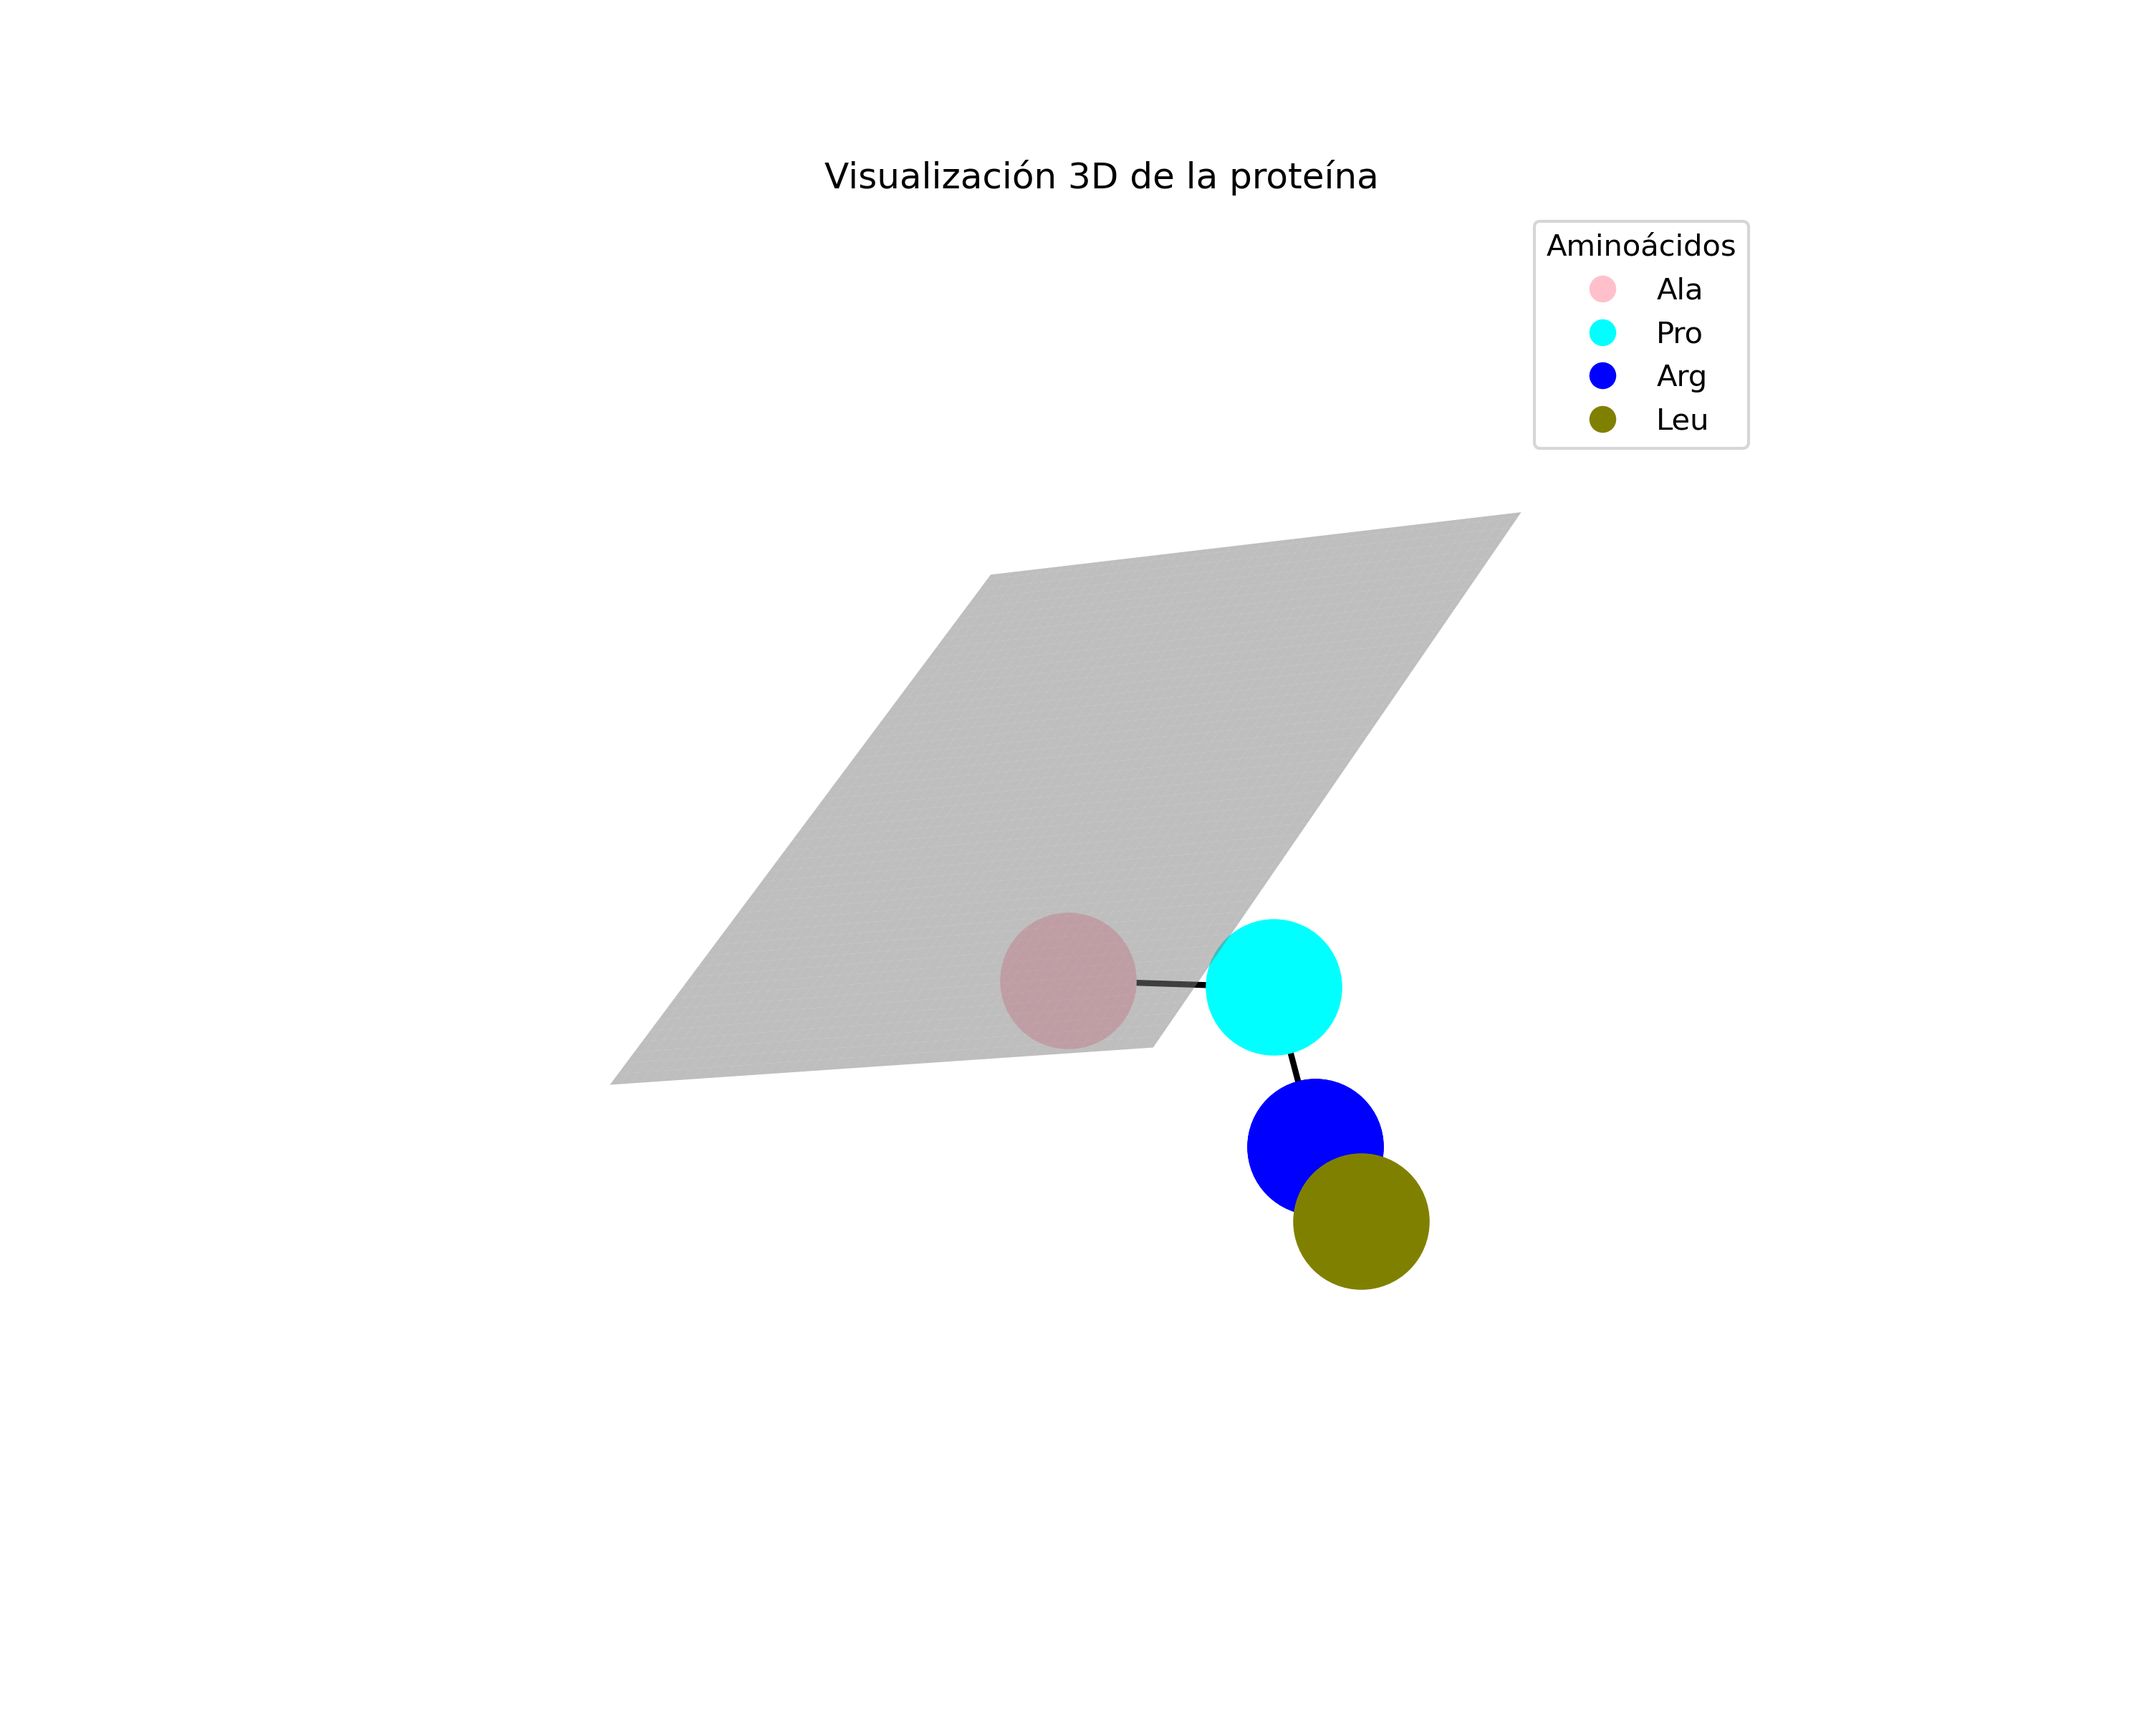
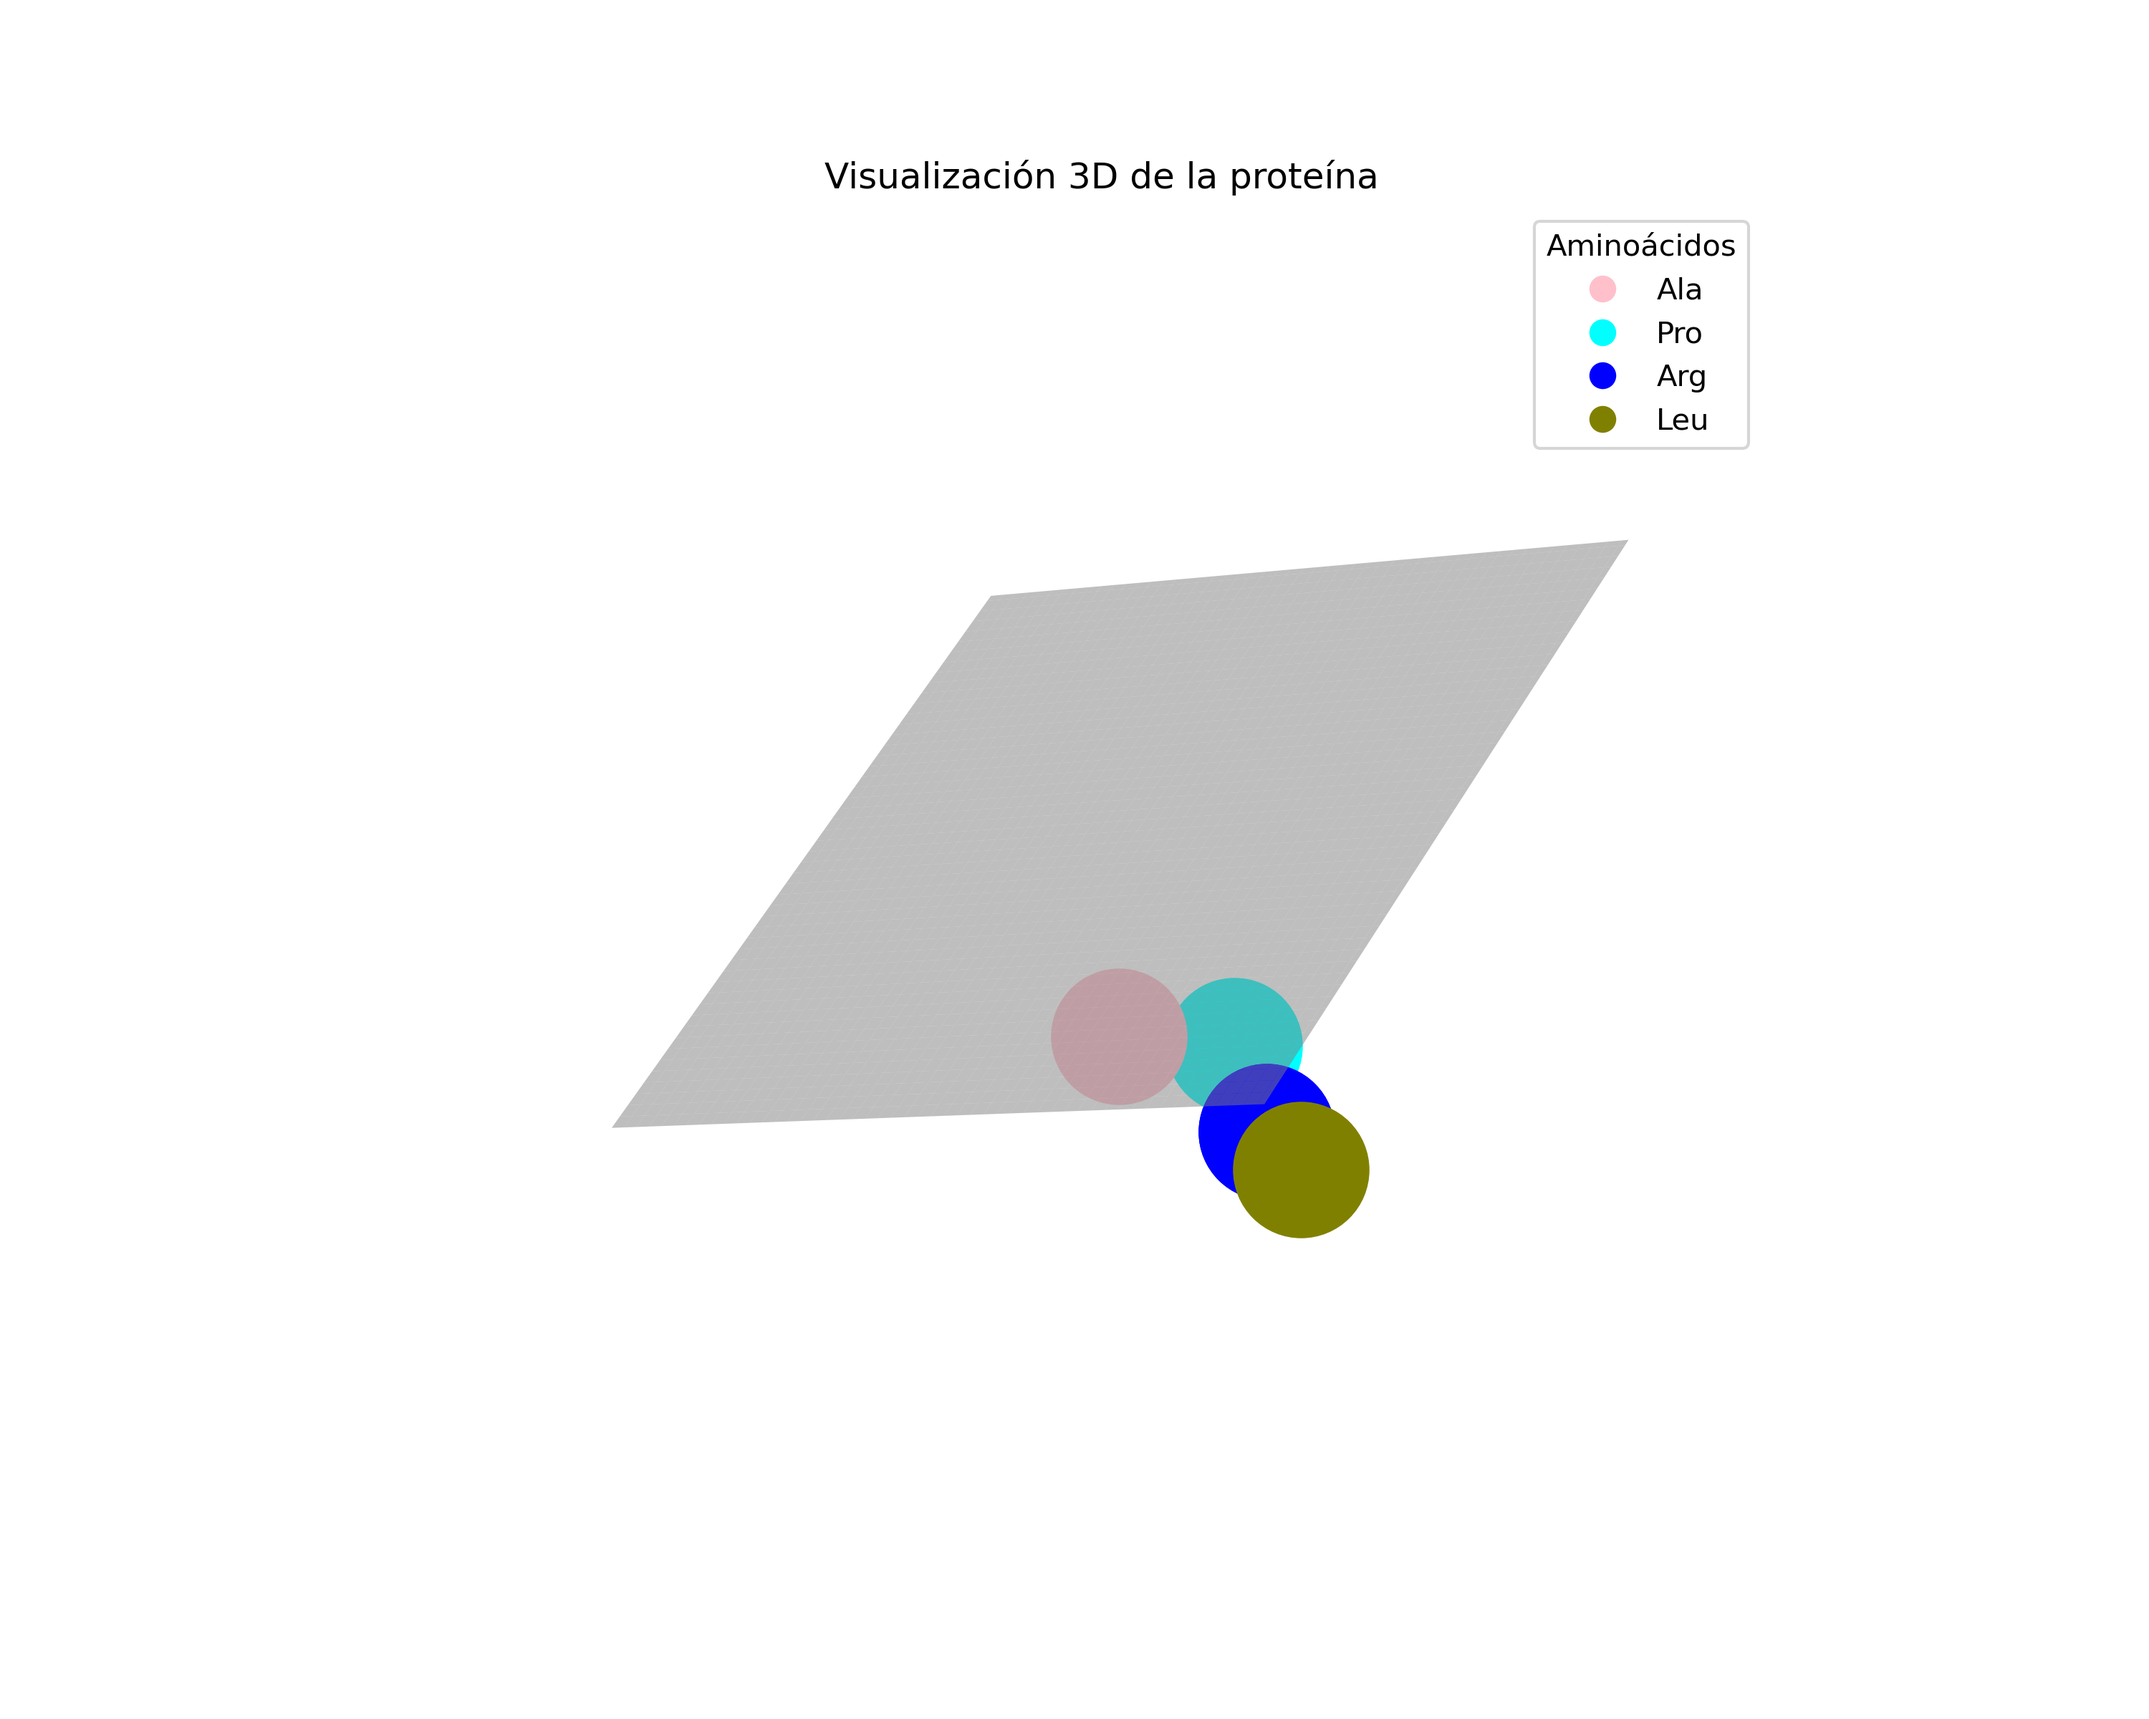
added

diff --git a/Code/Represantion_area/representation_v2.py b/Code/Represantion_area/representation_v2.py
@@ -38,9 +38,9 @@ def load_representation_from_json(json_filename):
     main_chain_data = data['main_chain']
     plane_data = data['plane']
     
-    x_plane_points = np.array(plane_data['x'])/8
-    y_plane_points = np.array(plane_data['y'])/8
-    z_plane_points = np.array(plane_data['z'])/8
+    x_plane_points = np.array(plane_data['x'])/2
+    y_plane_points = np.array(plane_data['y'])/2
+    z_plane_points = np.array(plane_data['z'])/2
     
     return side_chain_data, main_chain_data, x_plane_points, y_plane_points, z_plane_points
 
